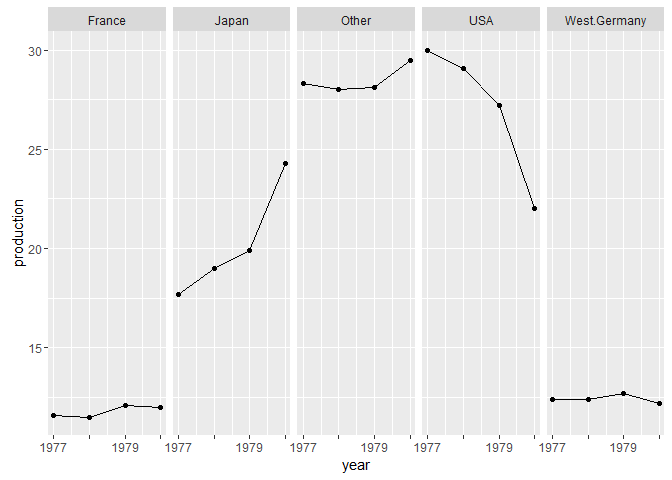
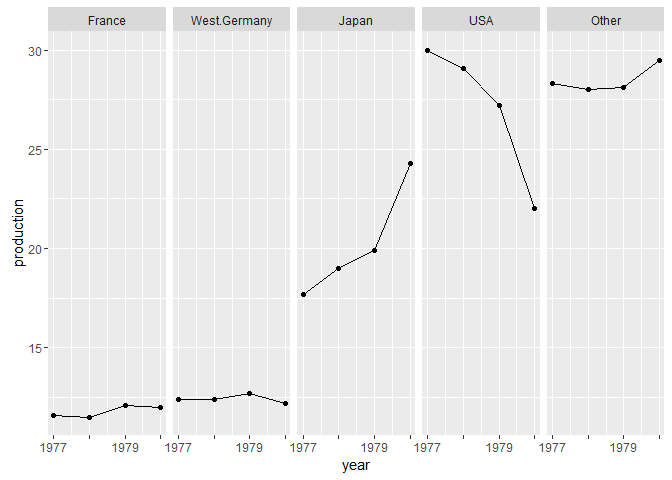
cm045

diff --git a/cm/cm045_line-graph.md b/cm/cm045_line-graph.md
@@ -94,7 +94,9 @@ ggplot(df, aes(x = year, y = production)) +
 panel order
 -----------
 
-For quantitative data, the panels should be ordered, usually in order of increasing values, e.g., the production data. First, let's check the order of countries (the order of the levels of the factor).
+For quantitative data, the panels should be ordered, usually in order of increasing values, e.g., the production data.
+
+First, let's look at the existing order of the levels of the country column (a factor).
 
 ``` r
 # confirm that the country variable is a factor
@@ -107,32 +109,117 @@ levels(df$country)
 ## [5] "West.Germany"
 ```
 
-Alphabetical, as expected. The graph panels from left to right are also in this order. To change panel order, we change the factor level order.
+Alphabetical, as expected. The graph panels from left to right are also in this order.
+
+To change the order of the graph panels, we have to change the order of the factor levels. In a previous example using factors, we simply typed the levels in the order we wanted them using the `levels` argument of the `factor()` function.
+
+However, in this example we want to automate the reordering of the factor levels based on the data in the production column.
+
+To start, let's print the data frame.
 
 ``` r
- # re-order the country panels by increasing magnitude of production 
-new_levels <- levels(factor(df$country[order(df$production)]))
+# take a look at the data frame
+df
+## # A tibble: 20 × 3
+##     year      country production
+##    <dbl>       <fctr>      <dbl>
+## 1   1977        Japan       17.7
+## 2   1978        Japan       19.0
+## 3   1979        Japan       19.9
+## 4   1980        Japan       24.3
+## 5   1977          USA       30.0
+## 6   1978          USA       29.1
+## 7   1979          USA       27.2
+## 8   1980          USA       22.0
+## 9   1977 West.Germany       12.4
+## 10  1978 West.Germany       12.4
+## 11  1979 West.Germany       12.7
+## 12  1980 West.Germany       12.2
+## 13  1977       France       11.6
+## 14  1978       France       11.5
+## 15  1979       France       12.1
+## 16  1980       France       12.0
+## 17  1977        Other       28.3
+## 18  1978        Other       28.0
+## 19  1979        Other       28.1
+## 20  1980        Other       29.5
+```
+
+Then create a vector of indices ordered by the production numbers.
+
+``` r
+# determine the order of the production numbers 
+production_order <- order(df$production)
+
+# ordering produces a vector of integers (indices)
+production_order 
+##  [1] 14 13 16 15 12  9 10 11  1  2  3  8  4  7 18 19 17  6 20  5
+```
+
+By default, `order()` places the elements of its argument in ascending order.
+
+-   The first element in `production_order` is 14. Looking at the data frame, we see that the row with the lowest production number is 1978, France, 11.5, in row 14.
+-   The last element in `production_order` is 5. Looking at the data frame, we see that the row with the highest production number is 1977, USA, 30, in row 5.
+
+Thus `production_order` is essentially a vector of row numbers (or indices) that orders the rows of the data frame in increasing order of production. We can show that.
+
+``` r
+# reorder the rows of the data frame and print
+df[production_order, ]
+## # A tibble: 20 × 3
+##     year      country production
+##    <dbl>       <fctr>      <dbl>
+## 1   1978       France       11.5
+## 2   1977       France       11.6
+## 3   1980       France       12.0
+## 4   1979       France       12.1
+## 5   1980 West.Germany       12.2
+## 6   1977 West.Germany       12.4
+## 7   1978 West.Germany       12.4
+## 8   1979 West.Germany       12.7
+## 9   1977        Japan       17.7
+## 10  1978        Japan       19.0
+## 11  1979        Japan       19.9
+## 12  1980          USA       22.0
+## 13  1980        Japan       24.3
+## 14  1979          USA       27.2
+## 15  1978        Other       28.0
+## 16  1979        Other       28.1
+## 17  1977        Other       28.3
+## 18  1978          USA       29.1
+## 19  1980        Other       29.5
+## 20  1977          USA       30.0
+```
+
+Next we use `production_order` to reorder the country level encoding. Recall, the country variable is a factor, encoded by integers \(1:5\).
+
+``` r
+# reorder the country panels by increasing magnitude of production 
+new_levels <- unique(df$country[production_order])
+
+# show the new ordering of levels 
+new_levels
+## [1] France       West.Germany Japan        USA          Other       
+## Levels: France Japan Other USA West.Germany
+```
+
+You can see that the levels are no longer in alphabetical order. Instead they are in order of increasing production.
+
+Finally, we use the `levels` argument of the `factor()` function to assign the new levels in the order we've found.
+
+``` r
 df$country <- factor(df$country, levels = new_levels)
 ```
 
-In this chunk, we:
+Important to note that the reordering of the levels has no effect on the ordering of the rows of the data frame. All we've done is reorder the integers that encode the factor variable.
 
--   start with production (a numerical vector) and country (a factor vector with 5 levels)
--   recall that the levels of a factor are encoded as integers
--   find the order of the production values and use that to order the factor integers
--   enforce country as a factor, extract the levels (in their new order), and temporarily assign to `new_levels`
--   apply `factor()` to country and assign its `levels` using `new_levels`
--   new country overwrites original country
-
-In this overwriting, remember that the rows of the data frame never changed. Only the integers that encode the levels of `country` changed
-
-Have a look at the new order of the panel levels---yes, they are in a new order.
+Finally, the code to this point has been presented in small chunks for understanding, but we can actually do the same work with one line:
 
 ``` r
-# check the new order of the factor levels 
-unique(levels(df$country))
-## [1] "France"       "Japan"        "Other"        "USA"         
-## [5] "West.Germany"
+# reorder country levels by order of increasing production 
+df$country <- factor(df$country, 
+      levels = unique(df$country[production_order])
+      )
 ```
 
 Create the graph again using the same code as before. The result shows that from left top right, the panels are in increasing order of production.

diff --git a/cm/cm014_project-1_graph-extras.md b/cm/cm014_project-1_graph-extras.md
@@ -21,6 +21,25 @@ Packages
 ``` r
 library(readr)
 library(plyr)
+```
+
+    ## -------------------------------------------------------------------------
+
+    ## You have loaded plyr after dplyr - this is likely to cause problems.
+    ## If you need functions from both plyr and dplyr, please load plyr first, then dplyr:
+    ## library(plyr); library(dplyr)
+
+    ## -------------------------------------------------------------------------
+
+    ## 
+    ## Attaching package: 'plyr'
+
+    ## The following objects are masked from 'package:dplyr':
+    ## 
+    ##     arrange, count, desc, failwith, id, mutate, rename, summarise,
+    ##     summarize
+
+``` r
 suppressPackageStartupMessages(library(dplyr))
 library(ggplot2)
 ```
@@ -33,6 +52,12 @@ Extract the numbers and units we want.
 ``` r
 # itemized results that are cited in the report 
 results      <- read_csv('results/04_calibr_outcomes.csv')
+## Parsed with column specification:
+## cols(
+##   item = col_character(),
+##   num = col_double(),
+##   unit = col_character()
+## )
 
 # extract numbers and units
 slope        <- results$num[results$item == "slope"]
@@ -56,7 +81,18 @@ recreate the basic graph
 
 ``` r
 graph_data <- read_csv("data/02_calibr_data-tidy.csv")
+```
 
+    ## Parsed with column specification:
+    ## cols(
+    ##   observ = col_integer(),
+    ##   cycle = col_integer(),
+    ##   test_pt = col_character(),
+    ##   input_lb = col_double(),
+    ##   output_mV = col_double()
+    ## )
+
+``` r
 calibr_graph <- ggplot(graph_data, aes(input_lb, output_mV)) +
     geom_smooth(method = 'lm', se = FALSE, color = 'gray70',  size = 0.5) + 
     geom_point(size = 1.5, stroke = 0.7, shape = 21, color = 'black', fill= 'gray70') +
@@ -133,8 +169,9 @@ Find the unique values in the input forces and sort them.
 ``` r
 x_test_seq <- sort(unique(graph_data$input_lb))
 x_test_seq
-## [1] 0.5 1.5 2.5 3.5 4.5
 ```
+
+    ## [1] 0.5 1.5 2.5 3.5 4.5
 
 Find the equivalent (nominal) values in the output mV readings. Sort and round to the nearest 10 mV (to be used as tick mark locations).
 
@@ -142,8 +179,9 @@ Find the equivalent (nominal) values in the output mV readings. Sort and round t
 # round to the nearest 10
 y_nominal_seq <- sort(unique(plyr::round_any(graph_data$output_mV, 10)))
 y_nominal_seq
-## [1] 10 30 50 70 90
 ```
+
+    ## [1] 10 30 50 70 90
 
 ``` r
 set.seed(20160824)
@@ -227,7 +265,6 @@ print(calibr_graph)
 ![](cm014_project-1_graph-extras_files/figure-markdown_github/unnamed-chunk-10-1.png)
 
 ``` r
-
 ggsave("results/07_calibr_graph-extras.png", plot = calibr_graph, width = 6, height = 4, units = "in", dpi = 300)
 ```
 

diff --git a/cm/cm024_ch07_handle-on-data.md b/cm/cm024_ch07_handle-on-data.md
@@ -123,10 +123,10 @@ glimpse(FertConsumpData)
 
     ## Observations: 1,848
     ## Variables: 4
-    ## $ iso2c          <chr> "1A", "1A", "1A", "1A", "1A", "1A...
-    ## $ country        <chr> "Arab World", "Arab World", "Arab...
-    ## $ AG.CON.FERT.ZS <dbl> 74.5, 63.2, 58.1, 64.9, 61.7, 59....
-    ## $ year           <dbl> 2011, 2010, 2009, 2008, 2007, 200...
+    ## $ iso2c          <chr> "1A", "1A", "1A", "1A", "1A", "1A", "1A", "S3",...
+    ## $ country        <chr> "Arab World", "Arab World", "Arab World", "Arab...
+    ## $ AG.CON.FERT.ZS <dbl> 74.5, 63.2, 58.1, 64.9, 61.7, 59.4, 68.8, 74.1,...
+    ## $ year           <dbl> 2011, 2010, 2009, 2008, 2007, 2006, 2005, 2011,...
 
 -   The number of observations is the number of rows.
 -   The number of variables is the number of columns.
@@ -161,8 +161,7 @@ ncol(FertConsumpData)
 colnames(FertConsumpData)
 ```
 
-    ## [1] "iso2c"          "country"        "AG.CON.FERT.ZS"
-    ## [4] "year"
+    ## [1] "iso2c"          "country"        "AG.CON.FERT.ZS" "year"
 
 Examine basic statistics of the 4 columns
 
@@ -172,22 +171,14 @@ Examine basic statistics of the 4 columns
 summary(FertConsumpData)
 ```
 
-    ##     iso2c             country          AG.CON.FERT.ZS 
-    ##  Length:1848        Length:1848        Min.   :    0  
-    ##  Class :character   Class :character   1st Qu.:   20  
-    ##  Mode  :character   Mode  :character   Median :   87  
-    ##                                        Mean   :  229  
-    ##                                        3rd Qu.:  154  
-    ##                                        Max.   :16532  
-    ##                                        NA's   :454    
-    ##       year     
-    ##  Min.   :2005  
-    ##  1st Qu.:2006  
-    ##  Median :2008  
-    ##  Mean   :2008  
-    ##  3rd Qu.:2010  
-    ##  Max.   :2011  
-    ## 
+    ##     iso2c             country          AG.CON.FERT.ZS       year     
+    ##  Length:1848        Length:1848        Min.   :    0   Min.   :2005  
+    ##  Class :character   Class :character   1st Qu.:   20   1st Qu.:2006  
+    ##  Mode  :character   Mode  :character   Median :   87   Median :2008  
+    ##                                        Mean   :  229   Mean   :2008  
+    ##                                        3rd Qu.:  154   3rd Qu.:2010  
+    ##                                        Max.   :16532   Max.   :2011  
+    ##                                        NA's   :454
 
 ``` r
 class(FertConsumpData)

diff --git a/cm/cm011_project-1_graph-first-look.md b/cm/cm011_project-1_graph-first-look.md
@@ -80,28 +80,29 @@ data
 ``` r
 graph_data <- read_csv("data/02_calibr_data-tidy.csv")
 str(graph_data)
-## Classes 'tbl_df', 'tbl' and 'data.frame':    17 obs. of  5 variables:
-##  $ observ   : int  1 2 3 4 5 6 7 8 9 10 ...
-##  $ cycle    : int  1 1 1 1 1 1 1 2 2 2 ...
-##  $ test_pt  : chr  "3 up" "4 up" "5 up" "4 dn" ...
-##  $ input_lb : num  2.5 3.5 4.5 3.5 2.5 1.5 0.5 1.5 2.5 3.5 ...
-##  $ output_mV: num  51.1 70.4 88.8 69.4 49.5 30.7 8.7 29.9 49.4 70 ...
-##  - attr(*, "spec")=List of 2
-##   ..$ cols   :List of 5
-##   .. ..$ observ   : list()
-##   .. .. ..- attr(*, "class")= chr  "collector_integer" "collector"
-##   .. ..$ cycle    : list()
-##   .. .. ..- attr(*, "class")= chr  "collector_integer" "collector"
-##   .. ..$ test_pt  : list()
-##   .. .. ..- attr(*, "class")= chr  "collector_character" "collector"
-##   .. ..$ input_lb : list()
-##   .. .. ..- attr(*, "class")= chr  "collector_double" "collector"
-##   .. ..$ output_mV: list()
-##   .. .. ..- attr(*, "class")= chr  "collector_double" "collector"
-##   ..$ default: list()
-##   .. ..- attr(*, "class")= chr  "collector_guess" "collector"
-##   ..- attr(*, "class")= chr "col_spec"
 ```
+
+    ## Classes 'tbl_df', 'tbl' and 'data.frame':    17 obs. of  5 variables:
+    ##  $ observ   : int  1 2 3 4 5 6 7 8 9 10 ...
+    ##  $ cycle    : int  1 1 1 1 1 1 1 2 2 2 ...
+    ##  $ test_pt  : chr  "3 up" "4 up" "5 up" "4 dn" ...
+    ##  $ input_lb : num  2.5 3.5 4.5 3.5 2.5 1.5 0.5 1.5 2.5 3.5 ...
+    ##  $ output_mV: num  51.1 70.4 88.8 69.4 49.5 30.7 8.7 29.9 49.4 70 ...
+    ##  - attr(*, "spec")=List of 2
+    ##   ..$ cols   :List of 5
+    ##   .. ..$ observ   : list()
+    ##   .. .. ..- attr(*, "class")= chr  "collector_integer" "collector"
+    ##   .. ..$ cycle    : list()
+    ##   .. .. ..- attr(*, "class")= chr  "collector_integer" "collector"
+    ##   .. ..$ test_pt  : list()
+    ##   .. .. ..- attr(*, "class")= chr  "collector_character" "collector"
+    ##   .. ..$ input_lb : list()
+    ##   .. .. ..- attr(*, "class")= chr  "collector_double" "collector"
+    ##   .. ..$ output_mV: list()
+    ##   .. .. ..- attr(*, "class")= chr  "collector_double" "collector"
+    ##   ..$ default: list()
+    ##   .. ..- attr(*, "class")= chr  "collector_guess" "collector"
+    ##   ..- attr(*, "class")= chr "col_spec"
 
 check yourself
 --------------
